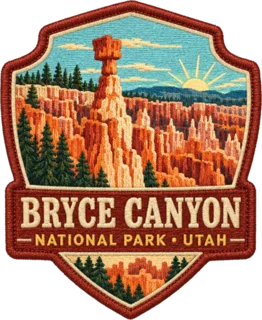
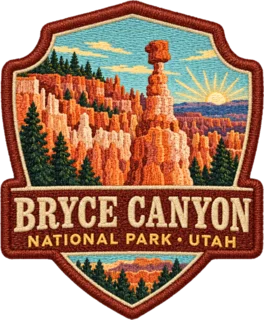
Switch Bryce Canyon, Grand Teton and Yellowstone to badge option 3

diff --git a/CLAUDE.md b/CLAUDE.md
@@ -79,5 +79,5 @@ Read `docs/PROJECT_SCOPE.md` and `docs/DESIGN.md` for scope and design intent.
 - Candidates land in `raw/badges/<slug>-<n>.png` (gitignored, local only). References for style are
   in `raw/badge-refs/`; they're third-party designs, so prompts must ask for an original design.
 - `scripts/cut-badge.sh <slug> [option]` cuts the chosen one off its white background into
-  `public/media/badges/<slug>.webp`, which `ParkNav` uses. Option 1 of each is in use now.
+  `public/media/badges/<slug>.webp`, which `ParkNav` uses. In use: zion 1, bryce 3, grand-teton 3, yellowstone 3.
 
